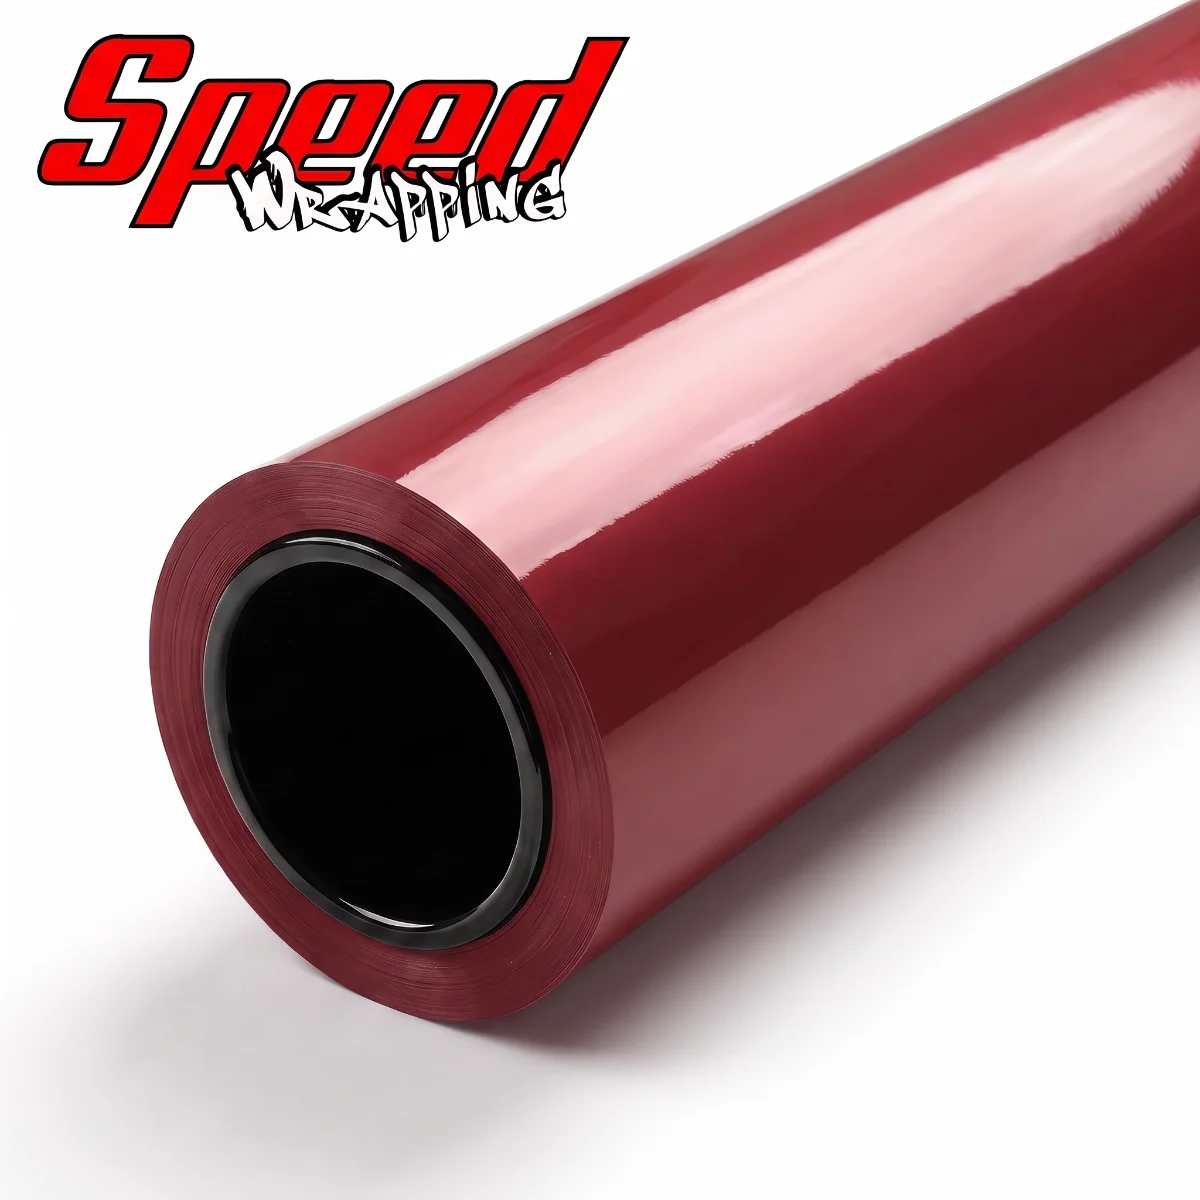
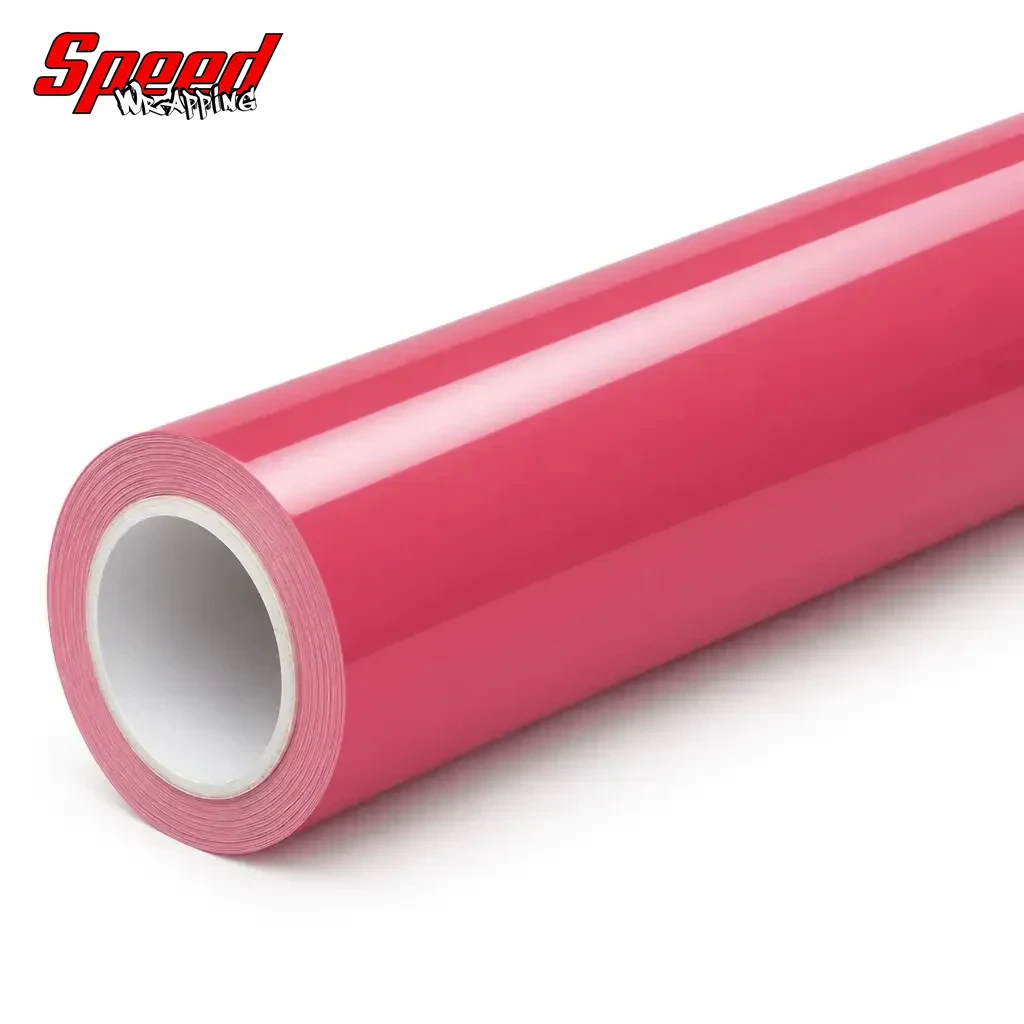
feat(esg-032): quatro fotos Mustang GT + capa na leitura (#C84A64)

diff --git a/scripts/marca-capa.py b/scripts/marca-capa.py
@@ -1,0 +1,46 @@
+#!/usr/bin/env python3
+"""Estampa a marca oficial numa capa de rolo ja corrigida na cor.
+
+POR QUE EXISTE
+--------------
+Normalmente o `publicar-cor.mjs` compoe a marca no momento do download, e a
+correcao de cor vem depois. Isso funciona enquanto a faixa de matiz do filme nao
+alcanca o vermelho do logotipo.
+
+Nao funciona para cor de matiz acima de ~345: ela cai na familia 'vermelho' do
+`recolorir-capa.py`, que vai de 330 a 30 graus, e o vermelho da marca Speed
+Wrapping esta em 1,6 graus — dentro da mesma faixa. Corrigir a capa com a marca
+ja aplicada repinta a marca.
+
+Nessas cores a ordem se inverte: baixar sem marca (tirar `logo` do manifesto),
+corrigir a cor, e estampar por ultimo com este script.
+
+USO
+    python3 scripts/marca-capa.py --capa <arquivo.webp> \
+        [--marca scripts/data/marca-speed-wrapping.png] \
+        [--largura 0.26] [--esquerda 0.025] [--topo 0.025]
+"""
+import argparse
+from PIL import Image
+
+def main():
+    ap = argparse.ArgumentParser()
+    ap.add_argument('--capa', required=True)
+    ap.add_argument('--marca', default='scripts/data/marca-speed-wrapping.png')
+    ap.add_argument('--largura', type=float, default=0.26)
+    ap.add_argument('--esquerda', type=float, default=0.025)
+    ap.add_argument('--topo', type=float, default=0.025)
+    ap.add_argument('--qualidade', type=int, default=92)
+    a = ap.parse_args()
+
+    capa = Image.open(a.capa).convert('RGB')
+    lado = capa.size[0]
+    marca = Image.open(a.marca).convert('RGBA')
+    larg = int(round(lado * a.largura))
+    marca = marca.resize((larg, int(round(marca.size[1] * larg / marca.size[0]))), Image.LANCZOS)
+    capa.paste(marca, (int(round(lado*a.esquerda)), int(round(lado*a.topo))), marca)
+    capa.save(a.capa, 'WEBP', quality=a.qualidade)
+    print('marca aplicada: %dx%d em (%d,%d) sobre capa de %d px'
+          % (*marca.size, lado*a.esquerda, lado*a.topo, lado))
+
+main()

diff --git a/docs/FOTOS_DE_COR_AUTOMOTIVA.md b/docs/FOTOS_DE_COR_AUTOMOTIVA.md
@@ -54,6 +54,62 @@ ainda vai ser corrigida.
 
 ## A leitura de cor
 
+### O bug que invalidava as leituras: a janela escolhida à mão
+
+Durante três cores eu medi a amostra assim: máscara por faixa de matiz, saturação
+e valor, mediana dentro dela. O problema é que **os limiares eram escolhidos por
+mim, por cor, e nunca registrados**. Na ESG-030 usei valor de 0,35 a 0,85; na
+ESG-031, de 0,45 a 0,92.
+
+Rodando as MESMAS fotos da ESG-030 com a janela da ESG-031, a leitura sai de
+**S 87 · V 60** para **S 67 · V 78**. Vinte pontos, só de mover o limiar.
+
+Não era medição. Era medição mais uma decisão minha invisível.
+
+### A leitura sem parâmetro livre
+
+O procedimento novo não tem nenhum limiar escolhido à mão:
+
+1. **Balanço de branco.** Estima o iluminante pelos neutros da cena — mesa, papel,
+   apoio do notebook — e normaliza. Foto de celular sob luz de escritório tem
+   dominante quente, e sem isso o matiz sai deslocado de 2 a 7 graus.
+2. **Acha o cartão** como o maior blob cromático, e recua 31 px da borda.
+3. **Fica só na parte PLANA**: gradiente de luminância no percentil 40 mais baixo.
+   Isso exclui sozinho a dobra do cartão, a borda do reflexo e o degradê da curva
+   — que é justamente o que os limiares à mão tentavam excluir, e erravam.
+4. **Corta especular e sombra por percentil DAQUELA região** (25 a 96), nunca por
+   valor absoluto. Assim a janela se adapta a cada foto em vez de impor um número.
+5. Mediana de H, S e V; e **a dispersão entre as fotos vira parte da leitura**.
+
+**A dispersão é o dado mais útil que faltava.** Ela diz quando a amostra não é
+confiável:
+
+| Cor | Leitura nova | sd(S) entre fotos | Veredito |
+|---|---|---|---|
+| ESG-031 Plum Magenta | H331 S52 V72 | 1,4 | confiável |
+| ESG-032 Morganite | H348 S63 V78 | 1,8 | confiável |
+| **ESG-030 Gem Red** | H333 S68 V76 | **7,7** | **não confiável** |
+
+A ESG-030 foi fotografada com o cartão bem dobrado e o reflexo da janela cruzando
+a face: as quatro fotos discordam entre si em quase 8 pontos, então nenhuma serve.
+O valor publicado dela (#98144E) veio de uma janela apertada que eu escolhi, e não
+se reproduz. **Vale refotografar essa amostra.**
+
+### Como fotografar a amostra, para a leitura valer
+
+Custo zero, e elimina três fontes de erro de uma vez:
+
+- **Cartão DEITADO e PLANO** sobre a mesa, não segurado e dobrado na mão. A dobra
+  cria degradê de luz que nenhum estimador separa bem da cor.
+- **Na sombra aberta**, longe de janela. O que estraga é o reflexo especular da
+  janela cruzando a face brilhante.
+- **Uma folha de papel branco no quadro**, ao lado do cartão. É a referência de
+  branco que ancora o balanço.
+- **Três a quatro fotos**, girando o cartão 90° entre elas. Se a dispersão passar
+  de 3 pontos, a luz estava ruim e vale refazer.
+
+---
+
 ### Quais fontes existem e quanto vale cada uma
 
 | Fonte | Confiança | Cuidado |
@@ -313,6 +369,31 @@ A **razão 3px/17px é idêntica** — mesma forma de curva, logo mesma natureza
 superfície: gradiente, não partícula. O nível absoluto maior é só cena de estúdio
 com reflexo mais contrastado. **A forma da curva diz o acabamento; o nível diz a
 dureza da luz.**
+
+### Lista de negações custa saturação
+
+Padrão medido em três cores seguidas da Speed Wrapping. Quando o prompt carrega
+uma fila de guardas de matiz — "NÃO salmão, NÃO coral, NÃO pêssego, NÃO tijolo,
+NÃO violeta, NÃO lilás, NÃO lavanda" — o matiz até fica onde se pediu, mas a
+**saturação despenca de 15 a 20 pontos**. O modelo parece resolver "não é nenhum
+desses" puxando a cor para o cinza, que é o único ponto que não é vizinho de
+ninguém.
+
+| Cor | Prompt | ΔH | ΔS |
+|---|---|---|---|
+| ESG-031 Plum Magenta | com "muted, restrained chroma" | +9,4 | **−21,2** |
+| ESG-032 Morganite | com sete negações de matiz | −1,3 | **−18,9** |
+| ESG-032 Morganite | cromaticidade em positivo | −11,9 | **−0,7** |
+
+**A regra:** descreva a cromaticidade em POSITIVO e com referência concreta
+— "melancia madura", "gomo de toranja", "letreiro de néon coral" — e guarde as
+negações para uma ou duas, as que realmente importam. Se o matiz escapar, ele
+volta por rotação, que é a correção mais barata que o `recolorir-capa.py` faz: não
+estoura nada. Saturação faltando é o caro, porque levantar 20 pontos estoura a
+sombra.
+
+**Escolha da base:** entre duas gerações, prefira a que acertou a SATURAÇÃO,
+mesmo com o matiz 10 ou 12 graus fora. Nunca o contrário.
 
 > **Como pedir gloss sólido:** "tinta automotiva sólida recém-aplicada", "campo de
 > cor cremoso e perfeitamente uniforme", "o brilho aparece como formas GRANDES e de
